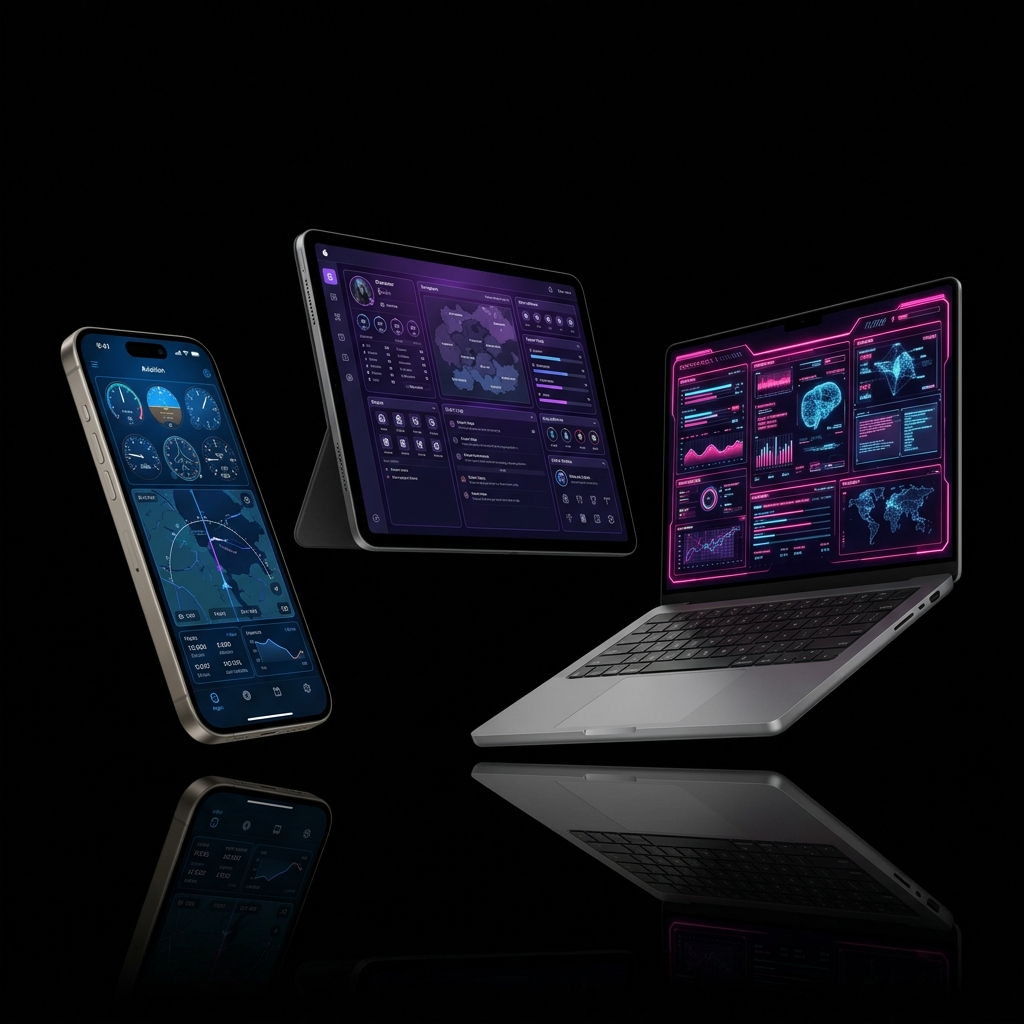
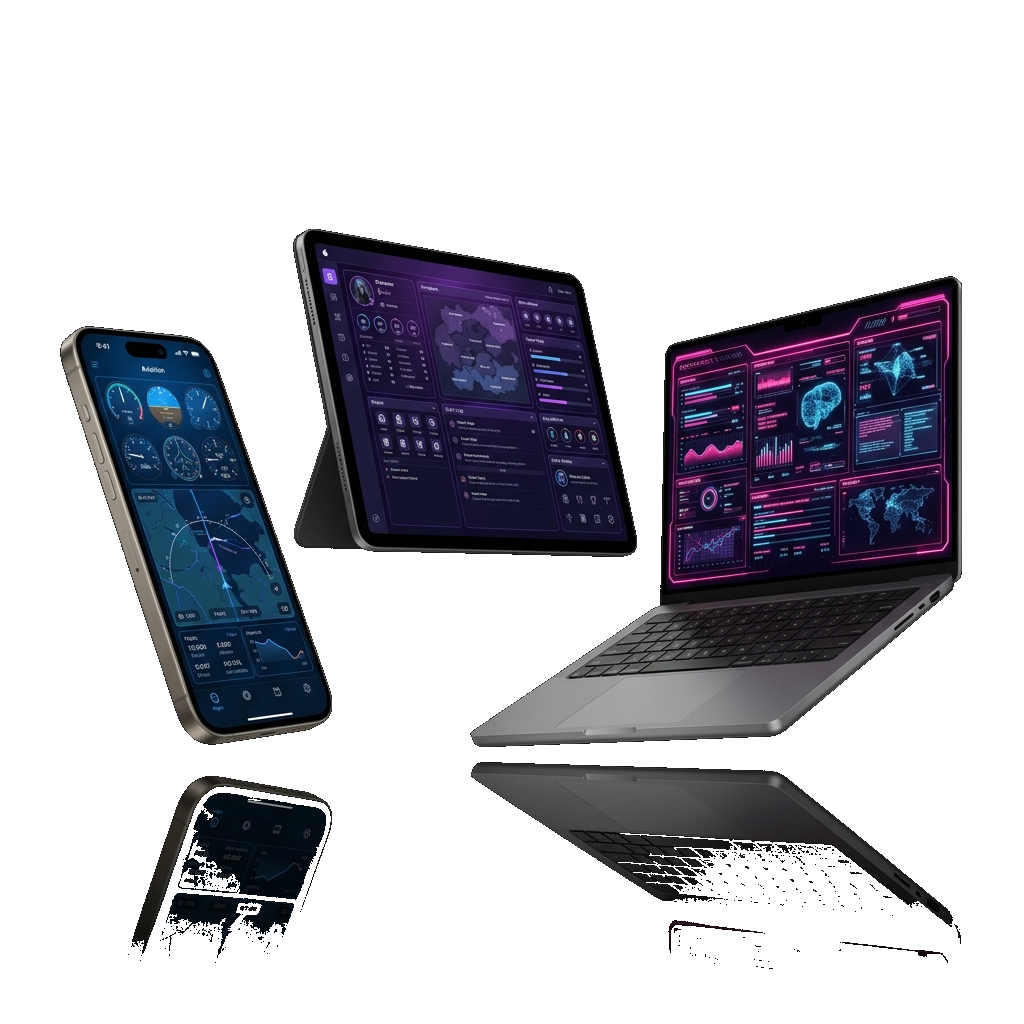
Add dedicated Game Vault Terms and Privacy pages, fix background transparency, and refine cards copy

diff --git a/app/terms/game-vault/page.tsx b/app/terms/game-vault/page.tsx
@@ -1,0 +1,50 @@
+import type { Metadata } from "next";
+import { LegalLayout } from "@/components/LegalLayout";
+import { site } from "@/lib/site";
+
+export const metadata: Metadata = {
+  title: "Terms of Service — Game Vault",
+  description: `Terms of service for Game Vault by ${site.name}.`,
+};
+
+export default function GameVaultTermsPage() {
+  return (
+    <LegalLayout title="Terms of Service — Game Vault">
+      <p>
+        <strong>Last updated:</strong> June 29, 2026
+      </p>
+      <p>
+        By installing or using the Game Vault application, you agree to these Terms of Service. If you do not agree to these terms, please do not install or use the app.
+      </p>
+
+      <h2 className="text-xl font-semibold text-zinc-900 dark:text-zinc-50 mt-10 mb-4">1. License & Scope of Use</h2>
+      <p>
+        {site.name} grants you a personal, non-exclusive, non-transferable, and revocable license to use Game Vault on your personal iPhone devices for entertainment purposes only, in accordance with the Apple App Store Terms of Service.
+      </p>
+
+      <h2 className="text-xl font-semibold text-zinc-900 dark:text-zinc-50 mt-10 mb-4">2. Local Data & Backup Disclaimer</h2>
+      <p>
+        Game Vault stores its game files, records, and preferences locally on your device. While you can synchronize your progress across devices via Apple iCloud, {site.name} does not operate cloud backends and cannot recover lost data, scores, or achievements.
+      </p>
+
+      <h2 className="text-xl font-semibold text-zinc-900 dark:text-zinc-50 mt-10 mb-4">3. Limitation of Liability</h2>
+      <p>
+        Game Vault is provided &quot;as is&quot; and &quot;as available,&quot; without warranty of any kind. To the maximum extent permitted by law, {site.name} disclaims all liability for any direct, indirect, incidental, or consequential damages resulting from the use or inability to use the application.
+      </p>
+
+      <h2 className="text-xl font-semibold text-zinc-900 dark:text-zinc-50 mt-10 mb-4">4. Updates & Changes</h2>
+      <p>
+        We may update Game Vault from time to time to add new games, fix bugs, or tweak features. These Terms will apply to all future updates. Continued use of the application following updates indicates your acceptance of any revised terms.
+      </p>
+
+      <h2 className="text-xl font-semibold text-zinc-900 dark:text-zinc-50 mt-10 mb-4">5. Contact Support</h2>
+      <p>
+        If you have any questions about these Terms, please contact support at{" "}
+        <a href={`mailto:${site.email}`} className="text-blue-500 hover:underline">
+          {site.email}
+        </a>
+        .
+      </p>
+    </LegalLayout>
+  );
+}

diff --git a/app/privacy/game-vault/page.tsx b/app/privacy/game-vault/page.tsx
@@ -1,0 +1,45 @@
+import type { Metadata } from "next";
+import { LegalLayout } from "@/components/LegalLayout";
+import { site } from "@/lib/site";
+
+export const metadata: Metadata = {
+  title: "Privacy Policy — Game Vault",
+  description: `Privacy policy for Game Vault by ${site.name}.`,
+};
+
+export default function GameVaultPrivacyPage() {
+  return (
+    <LegalLayout title="Privacy Policy — Game Vault">
+      <p>
+        <strong>Last updated:</strong> June 29, 2026
+      </p>
+      <p>
+        Game Vault is built and published by {site.name}. We believe your gaming habits should remain private. This policy outlines how your data is handled.
+      </p>
+
+      <h2 className="text-xl font-semibold text-zinc-900 dark:text-zinc-50 mt-10 mb-4">1. Data Storage & Privacy</h2>
+      <p>
+        Game Vault operates entirely locally on your iPhone. Your puzzle progress, high scores, active game states, and stats are stored directly in your device&apos;s sandbox storage. We do not run third-party databases, and we never collect, store, or sell your personal data.
+      </p>
+
+      <h2 className="text-xl font-semibold text-zinc-900 dark:text-zinc-50 mt-10 mb-4">2. Apple iCloud Syncing</h2>
+      <p>
+        If you choose to sync your game progress across multiple personal devices, synchronization is handled securely and directly through Apple iCloud via your personal Apple ID login. {site.name} has no access to your iCloud account, your credentials, or the synced data.
+      </p>
+
+      <h2 className="text-xl font-semibold text-zinc-900 dark:text-zinc-50 mt-10 mb-4">3. Third-Party Analytics & Ads</h2>
+      <p>
+        We do not integrate any tracking SDKs, cookies, or third-party analytics libraries. If we offer ad-supported features, ad delivery is handled securely using native iOS components which respect your system-level tracking preferences.
+      </p>
+
+      <h2 className="text-xl font-semibold text-zinc-900 dark:text-zinc-50 mt-10 mb-4">4. Contact Information</h2>
+      <p>
+        For privacy inquiries or support questions, please email us at{" "}
+        <a href={`mailto:${site.email}`} className="text-blue-500 hover:underline">
+          {site.email}
+        </a>
+        .
+      </p>
+    </LegalLayout>
+  );
+}

diff --git a/components/SiteFooter.tsx b/components/SiteFooter.tsx
@@ -3,17 +3,7 @@ import { site } from "@/lib/site";
 
 export function SiteFooter() {
   return (
-    <footer className="border-t border-zinc-200 dark:border-zinc-800 pt-20 pb-10 px-6 text-center">
-      <div className="max-w-2xl mx-auto mb-20">
-        <h2 className="text-3xl font-bold mb-6">Ready to upgrade your workflow?</h2>
-        <Link
-          href="/#contact"
-          className="inline-block px-8 py-4 rounded-full bg-zinc-900 dark:bg-white text-white dark:text-zinc-900 font-semibold shadow-lg hover:shadow-xl transition-all hover:-translate-y-1"
-        >
-          Get in touch with {site.name}
-        </Link>
-      </div>
-
+    <footer className="border-t border-zinc-200 dark:border-zinc-800 pt-12 pb-10 px-6 text-center">
       <div className="max-w-7xl mx-auto flex flex-col md:flex-row items-center justify-between gap-6">
         {/* Copyright */}
         <p className="text-sm text-zinc-500 dark:text-zinc-600">

diff --git a/app/page.tsx b/app/page.tsx
@@ -150,7 +150,7 @@ export default function Home() {
             <ScrollReveal delay={1}>
               <div className="text-center md:text-left p-6 rounded-2xl bg-white dark:bg-zinc-900 border border-zinc-200/60 dark:border-zinc-800 h-full">
                 <div className="w-12 h-12 rounded-xl bg-emerald-500/10 text-emerald-500 border border-emerald-500/20 flex items-center justify-center mb-4 mx-auto md:mx-0">
-                  <svg xmlns="http://www.w3.org/2000/svg" width="24" height="24" viewBox="0 0 24 24" fill="none" stroke="currentColor" strokeWidth="2" strokeLinecap="round" strokeLinejoin="round"><rect width="18" height="11" x="3" y="11" rx="2" ry="2"/><path d="M7 11V7a5 5 0 0 1 10 0v4"/></svg>
+                  <svg xmlns="http://www.w3.org/2000/svg" width="24" height="24" viewBox="0 0 24 24" fill="none" stroke="currentColor" strokeWidth="2" strokeLinecap="round" strokeLinejoin="round"><circle cx="12" cy="12" r="10"/><path d="M12 2a14.5 14.5 0 0 0 0 20 14.5 14.5 0 0 0 0-20"/><path d="M2 12h20"/></svg>
                 </div>
                 <h3 className="text-lg font-bold mb-2">Ready Anywhere</h3>
                 <p className="text-sm text-zinc-600 dark:text-zinc-400 leading-relaxed">
@@ -161,7 +161,7 @@ export default function Home() {
             <ScrollReveal delay={2}>
               <div className="text-center md:text-left p-6 rounded-2xl bg-white dark:bg-zinc-900 border border-zinc-200/60 dark:border-zinc-800 h-full">
                 <div className="w-12 h-12 rounded-xl bg-amber-500/10 text-amber-500 border border-amber-500/20 flex items-center justify-center mb-4 mx-auto md:mx-0">
-                  <svg xmlns="http://www.w3.org/2000/svg" width="24" height="24" viewBox="0 0 24 24" fill="none" stroke="currentColor" strokeWidth="2" strokeLinecap="round" strokeLinejoin="round"><path d="M13 2 3 14h9l-1 8 10-12h-9l1-8z"/></svg>
+                  <svg xmlns="http://www.w3.org/2000/svg" width="24" height="24" viewBox="0 0 24 24" fill="none" stroke="currentColor" strokeWidth="2" strokeLinecap="round" strokeLinejoin="round"><rect width="20" height="12" x="2" y="6" rx="3" ry="3"/><path d="M6 12h4"/><path d="M8 10v4"/><path d="M15 13h.01"/><path d="M18 11h.01"/></svg>
                 </div>
                 <h3 className="text-lg font-bold mb-2">Fun Without Friction</h3>
                 <p className="text-sm text-zinc-600 dark:text-zinc-400 leading-relaxed">
@@ -172,7 +172,7 @@ export default function Home() {
             <ScrollReveal delay={3}>
               <div className="text-center md:text-left p-6 rounded-2xl bg-white dark:bg-zinc-900 border border-zinc-200/60 dark:border-zinc-800 h-full">
                 <div className="w-12 h-12 rounded-xl bg-sky-500/10 text-sky-500 border border-sky-500/20 flex items-center justify-center mb-4 mx-auto md:mx-0">
-                  <svg xmlns="http://www.w3.org/2000/svg" width="24" height="24" viewBox="0 0 24 24" fill="none" stroke="currentColor" strokeWidth="2" strokeLinecap="round" strokeLinejoin="round"><path d="m2 8 2 2-2 2 2 2-2 2"/><path d="m22 8-2 2 2 2-2 2 2 2"/><line x1="9" x2="15" y1="12" y2="12"/></svg>
+                  <svg xmlns="http://www.w3.org/2000/svg" width="24" height="24" viewBox="0 0 24 24" fill="none" stroke="currentColor" strokeWidth="2" strokeLinecap="round" strokeLinejoin="round"><polygon points="13 2 3 14 12 14 11 22 21 10 12 10 13 2"/></svg>
                 </div>
                 <h3 className="text-lg font-bold mb-2">Built for iPhone</h3>
                 <p className="text-sm text-zinc-600 dark:text-zinc-400 leading-relaxed">